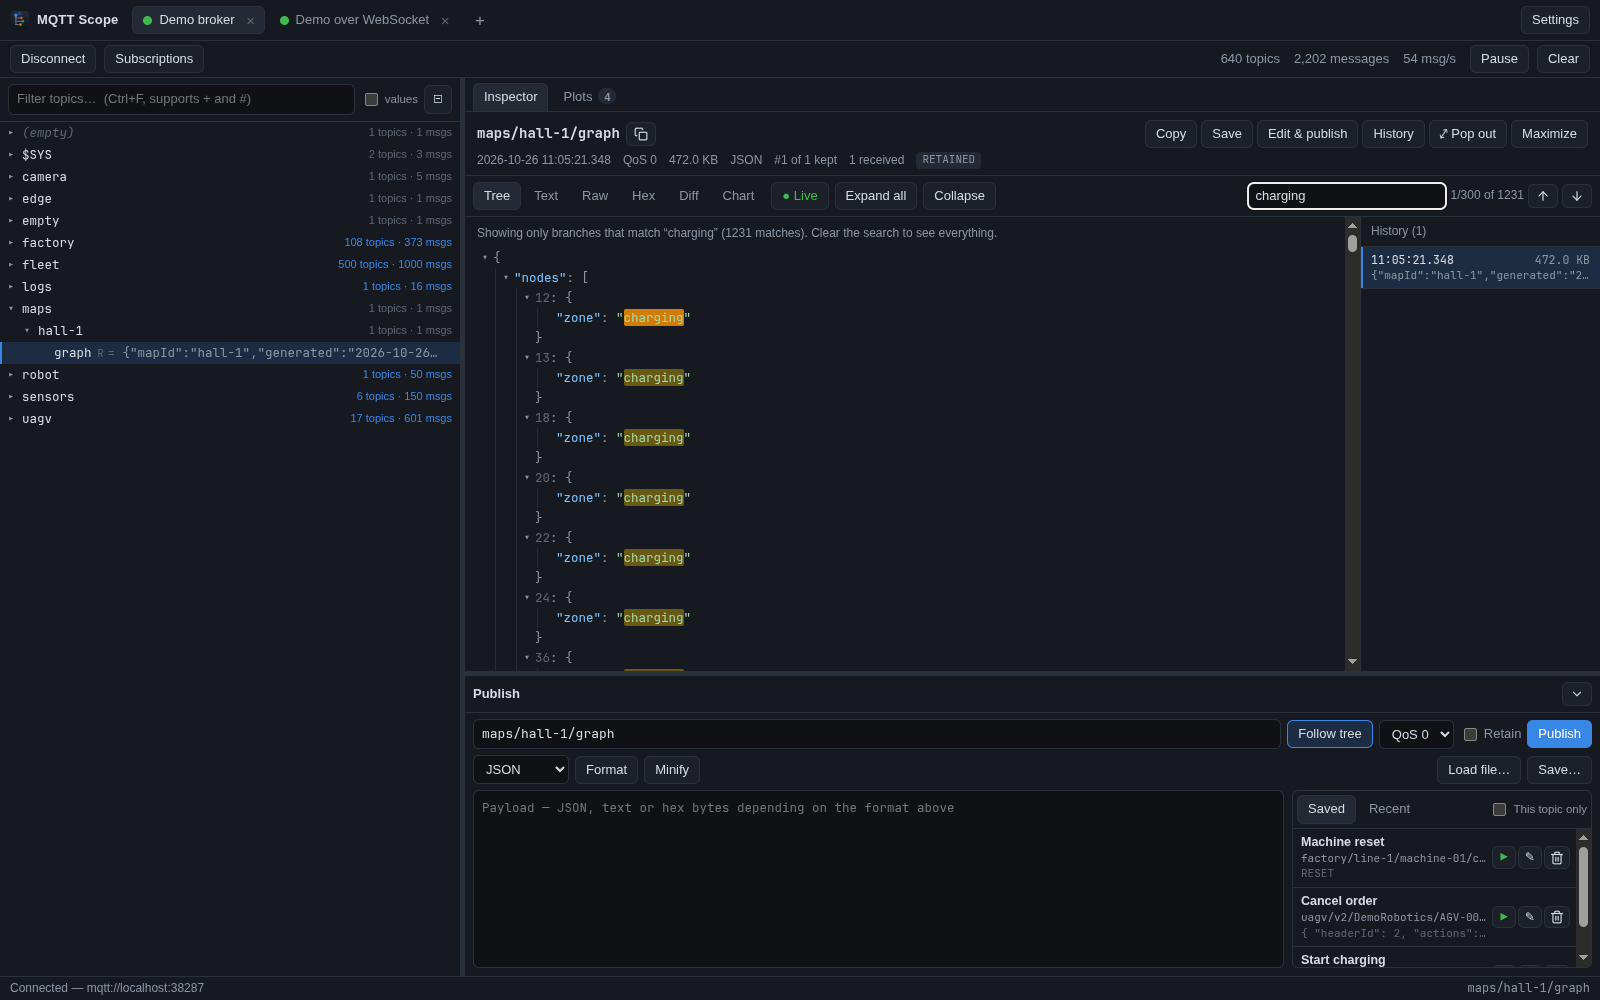
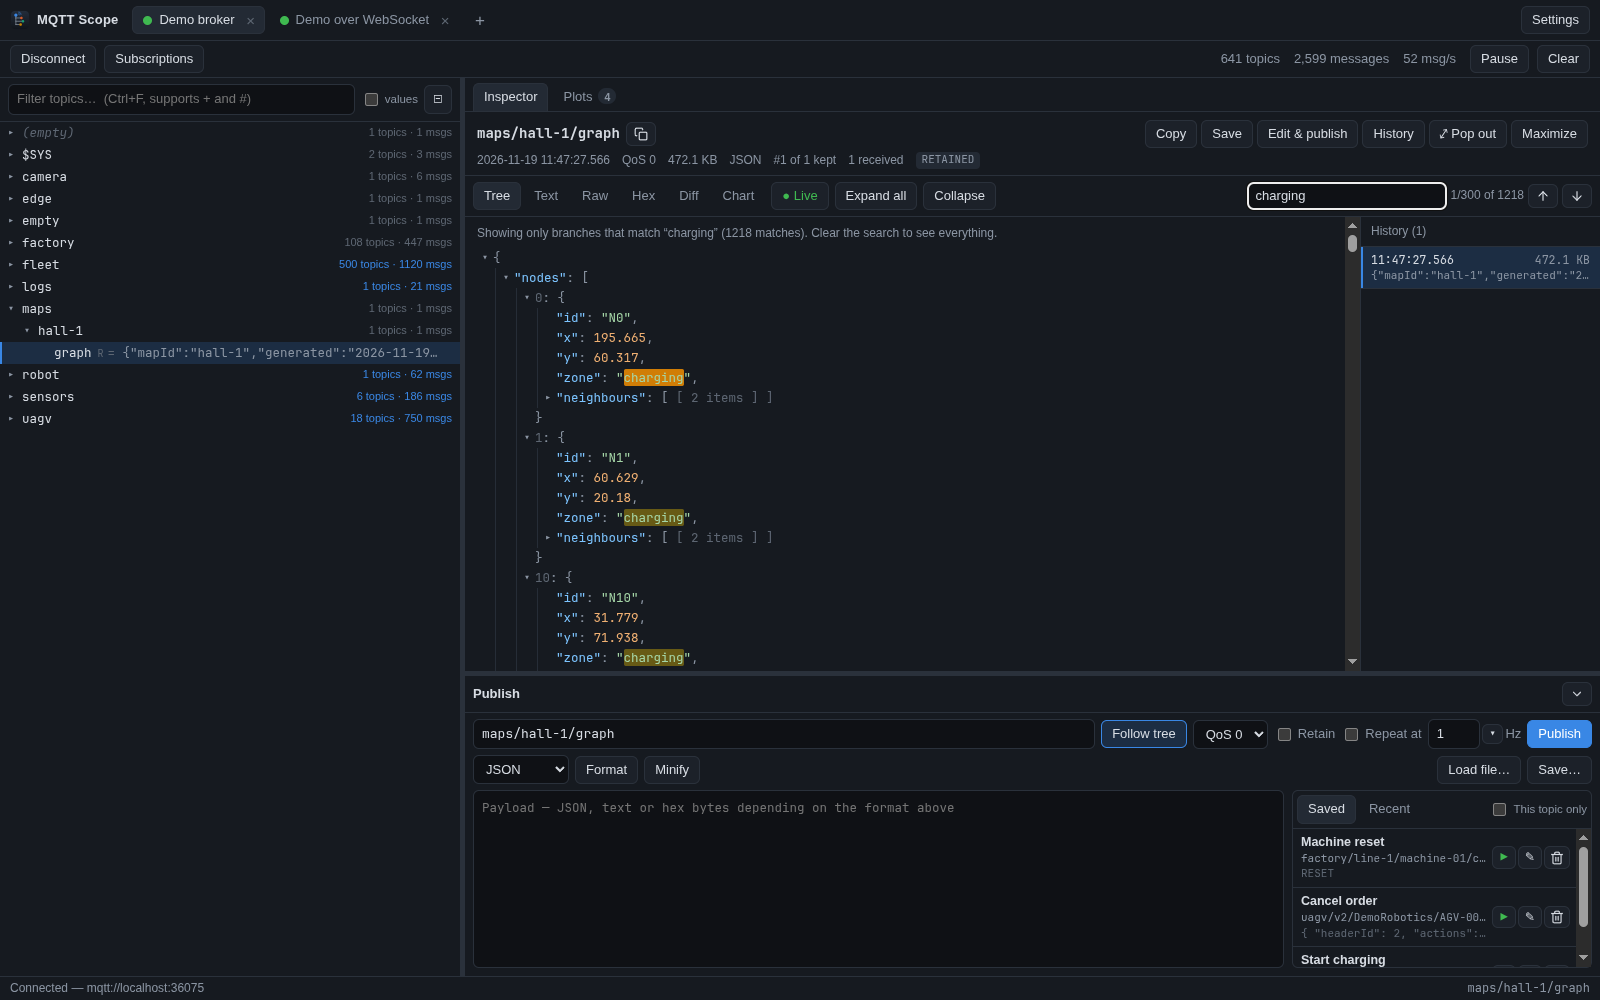
Inspector search: entries keep filtering inside; hits are matches only
- A list entry with a matching value shows its other fields, but the fields
  leading to matches stay filtered (a payload wrapped in a one-item list is no
  longer shown whole).
- Sizes and list indices in the Tree are not search hits.
- Screenshot of the search updated.

diff --git a/renderer/jsonTree.js b/renderer/jsonTree.js
@@ -94,7 +94,7 @@ export class JsonTree {
 
     container.textContent = '';
     const root = el('div', 'jt');
-    root.append(this.buildNode(undefined, value, '$', [], true, false));
+    root.append(this.buildNode(undefined, value, '$', [], true, 'filtered'));
     container.append(root);
 
     root.addEventListener('click', (e) => {
@@ -118,14 +118,18 @@ export class JsonTree {
     return this.expanded.has(path) || this.forced.has(path);
   }
 
-  buildNode(key, value, path, segs, isLast, unfiltered) {
+  // While searching, what a node shows (`inherited` from its parent):
+  //   'filtered': only children on the way to a match;
+  //   'all': everything (below a matching key, or beside the matches in an entry);
+  //   'entry': a list entry with a matching value: all its fields, but the
+  //            ones leading to matches stay filtered.
+  buildNode(key, value, path, segs, isLast, inherited) {
     const isContainer = value !== null && typeof value === 'object';
     const wrap = el('div', 'jt-node');
     const line = el('div', 'jt-line');
     line.title = path;
-    // Below a matching key, and in a matching list entry, everything is shown,
-    // not just further matches.
-    this.info.set(line, { path, segs, value, container: isContainer, unfiltered: unfiltered || this.matches.has(path) || this.whole.has(path) });
+    const mode = inherited === 'all' || this.matches.has(path) ? 'all' : this.whole.has(path) ? 'entry' : 'filtered';
+    this.info.set(line, { path, segs, value, container: isContainer, mode });
     if (this.changed.has(path)) line.classList.add('jt-changed');
 
     const caret = el('span', 'jt-caret', isContainer ? '▸' : '');
@@ -169,12 +173,14 @@ export class JsonTree {
     line.querySelector('.jt-summary').hidden = true;
     const kids = el('div', 'jt-children');
     let entries = Array.isArray(value) ? value.map((v, i) => [i, v]) : Object.entries(value);
-    if (this.visible && !info.unfiltered) entries = entries.filter(([k]) => this.visible.has(childPath(path, k)));
+    if (this.visible && info.mode === 'filtered') entries = entries.filter(([k]) => this.visible.has(childPath(path, k)));
+    const modeOf = (p) => (info.mode === 'entry' ? (this.visible.has(p) ? 'filtered' : 'all') : info.mode);
     const renderFrom = (start) => {
       const end = Math.min(entries.length, start + CHUNK);
       for (let i = start; i < end; i++) {
         const [k, v] = entries[i];
-        kids.append(this.buildNode(k, v, childPath(path, k), [...segs, k], i === entries.length - 1, info.unfiltered));
+        const p = childPath(path, k);
+        kids.append(this.buildNode(k, v, p, [...segs, k], i === entries.length - 1, modeOf(p)));
       }
       if (end < entries.length) {
         const more = el('div', 'jt-more', `Show ${Math.min(CHUNK, entries.length - end)} more of ${entries.length - end} remaining…`);

diff --git a/renderer/ui.js b/renderer/ui.js
@@ -154,11 +154,13 @@ export function splitter(handle, { axis, storageKey, initial, min, max, apply, i
 
 const MAX_MARKS = 5000;
 
-// Wraps case-insensitive matches of `query` inside `root` in <mark> elements.
-export function markMatches(root, query) {
+// Wraps case-insensitive matches of `query` inside `root` in <mark> elements,
+// leaving out text inside elements matching `skip` (e.g. a tree's sizes).
+export function markMatches(root, query, { skip = null } = {}) {
   if (!query) return [];
   const q = query.toLowerCase();
-  const walker = document.createTreeWalker(root, NodeFilter.SHOW_TEXT);
+  const filter = skip ? { acceptNode: (n) => (n.parentElement?.closest(skip) ? NodeFilter.FILTER_REJECT : NodeFilter.FILTER_ACCEPT) } : null;
+  const walker = document.createTreeWalker(root, NodeFilter.SHOW_TEXT, filter);
   const hits = [];
   const textNodes = [];
   for (let n = walker.nextNode(); n; n = walker.nextNode()) textNodes.push(n);

diff --git a/renderer/viewer.js b/renderer/viewer.js
@@ -396,7 +396,8 @@ export class MessageViewer {
 
     // Only mark matches in message content, never in hints or placeholders.
     const content = this.mode === 'chart' ? null : this.body.querySelector('.jt, .code, pre, .diff-table, .branch');
-    this.hits = content ? markMatches(content, this.query) : [];
+    // In the Tree, sizes ("{ 2 keys }") and list indices aren't part of the message.
+    this.hits = content ? markMatches(content, this.query, { skip: content.matches('.jt') ? '.jt-summary, .jt-index' : null }) : [];
     this.hitIndex = Math.min(this.hitIndex, Math.max(0, this.hits.length - 1));
     this.updateHits(false);
     this.body.scrollTop = scrollTop;

diff --git a/docs/superpowers/specs/2026-11-19-search-shows-entry-design.md b/docs/superpowers/specs/2026-11-19-search-shows-entry-design.md
@@ -17,6 +17,9 @@ what you were looking for.
 - When a search matches a value inside an entry of an array (an object
   directly in an array), the innermost such entry is shown in full: all its
   fields, nested containers open or closed as they were (a click toggles).
+  The fields that lead to further matches stay filtered (a big entry such as
+  a payload wrapped in a one-item list still shows only the matching parts).
+  Sizes (`{ 2 keys }`) and list indices are not counted as hits.
   A matching key name shows its own value already, so it doesn't open its
   entry (searching `temp` across robots still shows just each robot's temp).
   - `BRAKE_MODE` → `{ "key": "BRAKE_MODE", "value": "3" }`.
@@ -46,5 +49,7 @@ what you were looking for.
 - Unit (`searchJson`): matches inside entries report the entry to show in full;
   innermost entry only; matches outside arrays unchanged; count unchanged.
 - E2E: diagnostics message, search `BRAKE_MODE` → its `value` line visible;
-  search the status name → the entry's `level` visible and `values` closed;
-  a plain object match still hides its siblings.
+  search the status name → the entry's `level` visible, `values` open in a
+  small message and closed in a large one (opening shows every entry); a
+  payload wrapped in a one-item list still filters inside; hits = matches; a
+  plain object match still hides its siblings.
